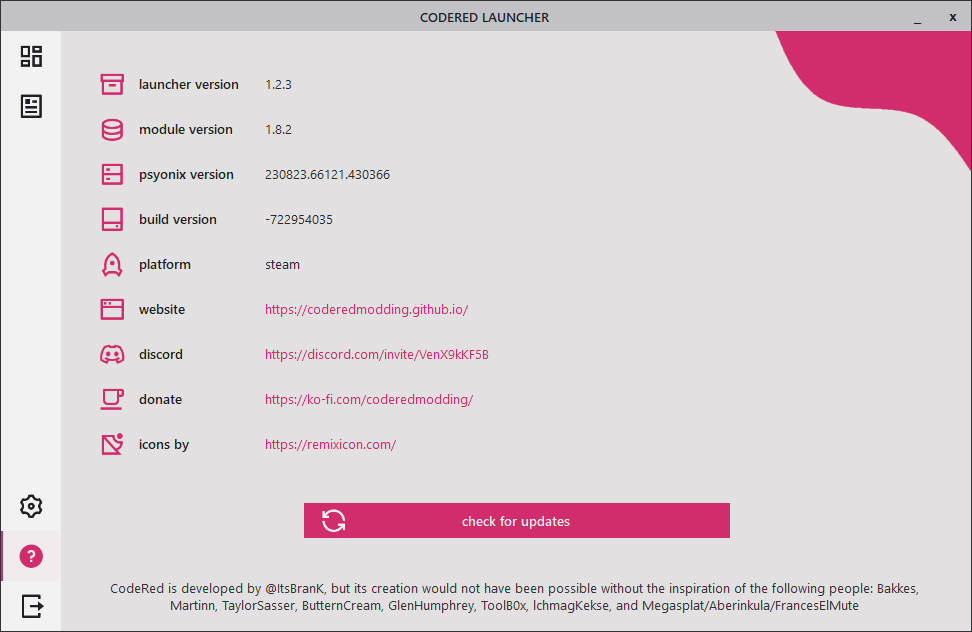
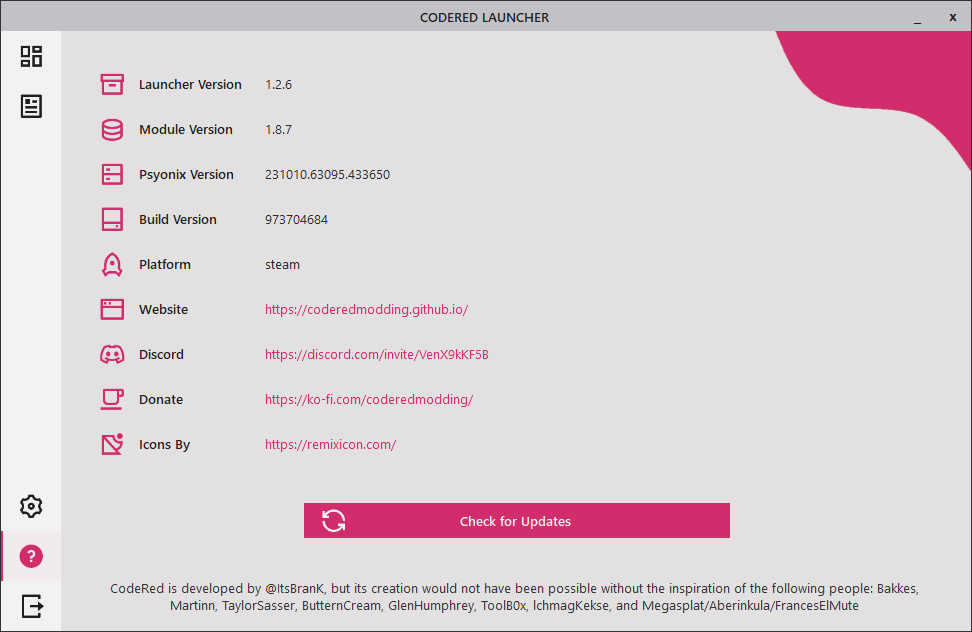
v1.2.7
- Changed the formatting for settings and labels in the about tab slightly.
- Changed the capitalizations for all the buttons for consistency reasons.
- Fixed the news tab downloading article data and images twice in the background on startup.

diff --git a/Forms/MainFrm.Designer.cs b/Forms/MainFrm.Designer.cs
@@ -235,8 +235,8 @@ namespace CodeRedLauncher
             PlatformInfoCtrl.BackColor = System.Drawing.Color.Transparent;
             PlatformInfoCtrl.ControlType = CodeRedLauncher.Controls.ControlTheme.Dark;
             PlatformInfoCtrl.DescriptionFont = new System.Drawing.Font("Segoe UI", 9.75F, System.Drawing.FontStyle.Regular, System.Drawing.GraphicsUnit.Point);
-            PlatformInfoCtrl.DisplayDescription = "loading...";
-            PlatformInfoCtrl.DisplayTitle = "platform";
+            PlatformInfoCtrl.DisplayDescription = "Loading...";
+            PlatformInfoCtrl.DisplayTitle = "Platform";
             PlatformInfoCtrl.Hyperlink = false;
             PlatformInfoCtrl.IconBlack = Properties.Resources.Rocket_Black;
             PlatformInfoCtrl.IconBlue = Properties.Resources.Rocket_Blue;
@@ -256,8 +256,8 @@ namespace CodeRedLauncher
             BuildInfoCtrl.BackColor = System.Drawing.Color.Transparent;
             BuildInfoCtrl.ControlType = CodeRedLauncher.Controls.ControlTheme.Dark;
             BuildInfoCtrl.DescriptionFont = new System.Drawing.Font("Segoe UI", 9.75F, System.Drawing.FontStyle.Regular, System.Drawing.GraphicsUnit.Point);
-            BuildInfoCtrl.DisplayDescription = "loading...";
-            BuildInfoCtrl.DisplayTitle = "build version";
+            BuildInfoCtrl.DisplayDescription = "Loading...";
+            BuildInfoCtrl.DisplayTitle = "Build Version";
             BuildInfoCtrl.Hyperlink = false;
             BuildInfoCtrl.IconBlack = Properties.Resources.Drive_Black;
             BuildInfoCtrl.IconBlue = Properties.Resources.Drive_Blue;
@@ -277,8 +277,8 @@ namespace CodeRedLauncher
             PsyonixInfoCtrl.BackColor = System.Drawing.Color.Transparent;
             PsyonixInfoCtrl.ControlType = CodeRedLauncher.Controls.ControlTheme.Dark;
             PsyonixInfoCtrl.DescriptionFont = new System.Drawing.Font("Segoe UI", 9.75F, System.Drawing.FontStyle.Regular, System.Drawing.GraphicsUnit.Point);
-            PsyonixInfoCtrl.DisplayDescription = "loading...";
-            PsyonixInfoCtrl.DisplayTitle = "psyonix version";
+            PsyonixInfoCtrl.DisplayDescription = "Loading...";
+            PsyonixInfoCtrl.DisplayTitle = "Psyonix Version";
             PsyonixInfoCtrl.Hyperlink = false;
             PsyonixInfoCtrl.IconBlack = Properties.Resources.Server_Black;
             PsyonixInfoCtrl.IconBlue = Properties.Resources.Server_Blue;
@@ -298,8 +298,8 @@ namespace CodeRedLauncher
             ModuleInfoCtrl.BackColor = System.Drawing.Color.Transparent;
             ModuleInfoCtrl.ControlType = CodeRedLauncher.Controls.ControlTheme.Dark;
             ModuleInfoCtrl.DescriptionFont = new System.Drawing.Font("Segoe UI", 9.75F, System.Drawing.FontStyle.Regular, System.Drawing.GraphicsUnit.Point);
-            ModuleInfoCtrl.DisplayDescription = "loading...";
-            ModuleInfoCtrl.DisplayTitle = "module version";
+            ModuleInfoCtrl.DisplayDescription = "Loading...";
+            ModuleInfoCtrl.DisplayTitle = "Module Version";
             ModuleInfoCtrl.Hyperlink = false;
             ModuleInfoCtrl.IconBlack = null;
             ModuleInfoCtrl.IconBlue = Properties.Resources.Database_Blue;
@@ -319,8 +319,8 @@ namespace CodeRedLauncher
             LauncherInfoCtrl.BackColor = System.Drawing.Color.Transparent;
             LauncherInfoCtrl.ControlType = CodeRedLauncher.Controls.ControlTheme.Dark;
             LauncherInfoCtrl.DescriptionFont = new System.Drawing.Font("Segoe UI", 9.75F, System.Drawing.FontStyle.Regular, System.Drawing.GraphicsUnit.Point);
-            LauncherInfoCtrl.DisplayDescription = "loading...";
-            LauncherInfoCtrl.DisplayTitle = "launcher version";
+            LauncherInfoCtrl.DisplayDescription = "Loading...";
+            LauncherInfoCtrl.DisplayTitle = "Launcher Version";
             LauncherInfoCtrl.Hyperlink = false;
             LauncherInfoCtrl.IconBlack = Properties.Resources.Box_Black;
             LauncherInfoCtrl.IconBlue = Properties.Resources.Box_Blue;
@@ -341,7 +341,7 @@ namespace CodeRedLauncher
             WebsiteInfoCtrl.ControlType = CodeRedLauncher.Controls.ControlTheme.Dark;
             WebsiteInfoCtrl.DescriptionFont = new System.Drawing.Font("Segoe UI", 9.75F, System.Drawing.FontStyle.Regular, System.Drawing.GraphicsUnit.Point);
             WebsiteInfoCtrl.DisplayDescription = "https://coderedmodding.github.io/";
-            WebsiteInfoCtrl.DisplayTitle = "website";
+            WebsiteInfoCtrl.DisplayTitle = "Website";
             WebsiteInfoCtrl.Hyperlink = true;
             WebsiteInfoCtrl.IconBlack = Properties.Resources.Website_Black;
             WebsiteInfoCtrl.IconBlue = Properties.Resources.Website_Blue;
@@ -362,7 +362,7 @@ namespace CodeRedLauncher
             DiscordInfoCtrl.ControlType = CodeRedLauncher.Controls.ControlTheme.Dark;
             DiscordInfoCtrl.DescriptionFont = new System.Drawing.Font("Segoe UI", 9.75F, System.Drawing.FontStyle.Regular, System.Drawing.GraphicsUnit.Point);
             DiscordInfoCtrl.DisplayDescription = "https://discord.gg/";
-            DiscordInfoCtrl.DisplayTitle = "discord";
+            DiscordInfoCtrl.DisplayTitle = "Discord";
             DiscordInfoCtrl.Hyperlink = true;
             DiscordInfoCtrl.IconBlack = Properties.Resources.Discord_Black;
             DiscordInfoCtrl.IconBlue = Properties.Resources.Discord_Blue;
@@ -383,7 +383,7 @@ namespace CodeRedLauncher
             DonateInfoCtrl.ControlType = CodeRedLauncher.Controls.ControlTheme.Dark;
             DonateInfoCtrl.DescriptionFont = new System.Drawing.Font("Segoe UI", 9.75F, System.Drawing.FontStyle.Regular, System.Drawing.GraphicsUnit.Point);
             DonateInfoCtrl.DisplayDescription = "https://ko-fi.com/coderedmodding/";
-            DonateInfoCtrl.DisplayTitle = "donate";
+            DonateInfoCtrl.DisplayTitle = "Donate";
             DonateInfoCtrl.Hyperlink = true;
             DonateInfoCtrl.IconBlack = Properties.Resources.Coffee_Black;
             DonateInfoCtrl.IconBlue = Properties.Resources.Coffee_Blue;
@@ -404,7 +404,7 @@ namespace CodeRedLauncher
             RemixInfoCtrl.ControlType = CodeRedLauncher.Controls.ControlTheme.Dark;
             RemixInfoCtrl.DescriptionFont = new System.Drawing.Font("Segoe UI", 9.75F, System.Drawing.FontStyle.Regular, System.Drawing.GraphicsUnit.Point);
             RemixInfoCtrl.DisplayDescription = "https://remixicon.com/";
-            RemixInfoCtrl.DisplayTitle = "icons by";
+            RemixInfoCtrl.DisplayTitle = "Icons By";
             RemixInfoCtrl.Hyperlink = true;
             RemixInfoCtrl.IconBlack = Properties.Resources.Remix_Black;
             RemixInfoCtrl.IconBlue = Properties.Resources.Remix_Blue;
@@ -426,7 +426,7 @@ namespace CodeRedLauncher
             CheckUpdatesBtn.ButtonEnabled = true;
             CheckUpdatesBtn.ControlType = CodeRedLauncher.Controls.ControlTheme.Dark;
             CheckUpdatesBtn.DisplayFont = new System.Drawing.Font("Segoe UI Semibold", 9.75F, System.Drawing.FontStyle.Bold, System.Drawing.GraphicsUnit.Point);
-            CheckUpdatesBtn.DisplayText = "Check for updates";
+            CheckUpdatesBtn.DisplayText = "Check for Updates";
             CheckUpdatesBtn.Font = new System.Drawing.Font("Segoe UI Semibold", 9.75F, System.Drawing.FontStyle.Bold, System.Drawing.GraphicsUnit.Point);
             CheckUpdatesBtn.ForeColor = System.Drawing.Color.FromArgb(242, 243, 245);
             CheckUpdatesBtn.IconBlack = Properties.Resources.Refresh_Black;
@@ -676,9 +676,9 @@ namespace CodeRedLauncher
             NewsCtrl.LeftWhite = Properties.Resources.Left_White;
             NewsCtrl.Location = new System.Drawing.Point(23, 25);
             NewsCtrl.Name = "NewsCtrl";
-            NewsCtrl.NewsCategory = "loading...";
-            NewsCtrl.PublishAuthor = "loading...";
-            NewsCtrl.PublishDate = "loading...";
+            NewsCtrl.NewsCategory = "Loading...";
+            NewsCtrl.PublishAuthor = "Loading...";
+            NewsCtrl.PublishDate = "Loading...";
             NewsCtrl.RightBlack = Properties.Resources.Right_Black;
             NewsCtrl.RightBlue = Properties.Resources.Right_Blue;
             NewsCtrl.RightPurple = Properties.Resources.Right_Purple;
@@ -687,7 +687,7 @@ namespace CodeRedLauncher
             NewsCtrl.Size = new System.Drawing.Size(865, 550);
             NewsCtrl.TabIndex = 0;
             NewsCtrl.Thumbnail = null;
-            NewsCtrl.Title = "loading...";
+            NewsCtrl.Title = "Loading...";
             // 
             // NewsArtOne
             // 
@@ -807,7 +807,7 @@ namespace CodeRedLauncher
             AutoInstallBx.CheckWhite = Properties.Resources.Checkbox_White;
             AutoInstallBx.ControlType = CodeRedLauncher.Controls.ControlTheme.Dark;
             AutoInstallBx.DisplayFont = new System.Drawing.Font("Segoe UI Semibold", 9.75F, System.Drawing.FontStyle.Bold, System.Drawing.GraphicsUnit.Point);
-            AutoInstallBx.DisplayText = "automatically install updates";
+            AutoInstallBx.DisplayText = "Automatically install updates";
             AutoInstallBx.ForeColor = System.Drawing.Color.FromArgb(242, 243, 245);
             AutoInstallBx.IconBlack = Properties.Resources.Install_Black;
             AutoInstallBx.IconBlue = Properties.Resources.Install_Blue;
@@ -856,7 +856,7 @@ namespace CodeRedLauncher
             HideWhenMinimizedBx.CheckWhite = Properties.Resources.Checkbox_White;
             HideWhenMinimizedBx.ControlType = CodeRedLauncher.Controls.ControlTheme.Dark;
             HideWhenMinimizedBx.DisplayFont = new System.Drawing.Font("Segoe UI Semibold", 9.75F, System.Drawing.FontStyle.Bold, System.Drawing.GraphicsUnit.Point);
-            HideWhenMinimizedBx.DisplayText = "hide when minimized";
+            HideWhenMinimizedBx.DisplayText = "Hide when minimized";
             HideWhenMinimizedBx.ForeColor = System.Drawing.Color.FromArgb(235, 235, 235);
             HideWhenMinimizedBx.IconBlack = Properties.Resources.Spy_Black;
             HideWhenMinimizedBx.IconBlue = Properties.Resources.Spy_Blue;
@@ -877,7 +877,7 @@ namespace CodeRedLauncher
             InstallPathLbl.BackColor = System.Drawing.Color.Transparent;
             InstallPathLbl.ControlType = CodeRedLauncher.Controls.ControlTheme.Dark;
             InstallPathLbl.DisplayFont = new System.Drawing.Font("Segoe UI Semibold", 9.75F, System.Drawing.FontStyle.Bold, System.Drawing.GraphicsUnit.Point);
-            InstallPathLbl.DisplayText = "install path";
+            InstallPathLbl.DisplayText = "Install path";
             InstallPathLbl.IconBlack = Properties.Resources.Folder_Black;
             InstallPathLbl.IconBlue = Properties.Resources.Folder_Blue;
             InstallPathLbl.IconPurple = Properties.Resources.Folder_Purple;
@@ -894,7 +894,7 @@ namespace CodeRedLauncher
             InjectionTimeoutLbl.BackColor = System.Drawing.Color.Transparent;
             InjectionTimeoutLbl.ControlType = CodeRedLauncher.Controls.ControlTheme.Dark;
             InjectionTimeoutLbl.DisplayFont = new System.Drawing.Font("Segoe UI Semibold", 9.75F, System.Drawing.FontStyle.Bold, System.Drawing.GraphicsUnit.Point);
-            InjectionTimeoutLbl.DisplayText = "injection delay";
+            InjectionTimeoutLbl.DisplayText = "Injection delay";
             InjectionTimeoutLbl.IconBlack = Properties.Resources.Hourglass_Black;
             InjectionTimeoutLbl.IconBlue = Properties.Resources.Hourglass_Blue;
             InjectionTimeoutLbl.IconPurple = Properties.Resources.Hourglass_Purple;
@@ -916,7 +916,7 @@ namespace CodeRedLauncher
             LightModeBx.CheckWhite = Properties.Resources.Checkbox_White;
             LightModeBx.ControlType = CodeRedLauncher.Controls.ControlTheme.Dark;
             LightModeBx.DisplayFont = new System.Drawing.Font("Segoe UI Semibold", 9.75F, System.Drawing.FontStyle.Bold, System.Drawing.GraphicsUnit.Point);
-            LightModeBx.DisplayText = "blind me with the power of the sun";
+            LightModeBx.DisplayText = "Blind me with the power of the sun";
             LightModeBx.ForeColor = System.Drawing.Color.FromArgb(242, 243, 245);
             LightModeBx.IconBlack = Properties.Resources.Sun_Black;
             LightModeBx.IconBlue = Properties.Resources.Sun_Blue;
@@ -942,7 +942,7 @@ namespace CodeRedLauncher
             ManualInjectBx.CheckWhite = Properties.Resources.Checkbox_White;
             ManualInjectBx.ControlType = CodeRedLauncher.Controls.ControlTheme.Dark;
             ManualInjectBx.DisplayFont = new System.Drawing.Font("Segoe UI Semibold", 9.75F, System.Drawing.FontStyle.Bold, System.Drawing.GraphicsUnit.Point);
-            ManualInjectBx.DisplayText = "manually inject instead of delay";
+            ManualInjectBx.DisplayText = "Manually inject instead of delay";
             ManualInjectBx.ForeColor = System.Drawing.Color.FromArgb(242, 243, 245);
             ManualInjectBx.IconBlack = Properties.Resources.Mouse_Black;
             ManualInjectBx.IconBlue = Properties.Resources.Mouse_Blue;
@@ -988,7 +988,7 @@ namespace CodeRedLauncher
             InstallPathBx.BoxEnabled = true;
             InstallPathBx.ControlType = CodeRedLauncher.Controls.ControlTheme.Dark;
             InstallPathBx.DisplayFont = new System.Drawing.Font("Segoe UI Semibold", 9F, System.Drawing.FontStyle.Bold, System.Drawing.GraphicsUnit.Point);
-            InstallPathBx.DisplayText = "loading...";
+            InstallPathBx.DisplayText = "Loading...";
             InstallPathBx.ForeColor = System.Drawing.Color.FromArgb(235, 235, 235);
             InstallPathBx.Location = new System.Drawing.Point(192, 490);
             InstallPathBx.Margin = new System.Windows.Forms.Padding(4, 3, 4, 3);
@@ -1004,7 +1004,7 @@ namespace CodeRedLauncher
             OpenFolderBtn.ButtonEnabled = true;
             OpenFolderBtn.ControlType = CodeRedLauncher.Controls.ControlTheme.Dark;
             OpenFolderBtn.DisplayFont = new System.Drawing.Font("Segoe UI Semibold", 9.75F, System.Drawing.FontStyle.Bold, System.Drawing.GraphicsUnit.Point);
-            OpenFolderBtn.DisplayText = "Open install path";
+            OpenFolderBtn.DisplayText = "Open Install Path";
             OpenFolderBtn.Font = new System.Drawing.Font("Segoe UI Semibold", 9.75F, System.Drawing.FontStyle.Bold, System.Drawing.GraphicsUnit.Point);
             OpenFolderBtn.ForeColor = System.Drawing.Color.FromArgb(242, 243, 245);
             OpenFolderBtn.IconBlack = Properties.Resources.Open_Black;
@@ -1027,7 +1027,7 @@ namespace CodeRedLauncher
             ExportLogsBtn.ButtonEnabled = true;
             ExportLogsBtn.ControlType = CodeRedLauncher.Controls.ControlTheme.Dark;
             ExportLogsBtn.DisplayFont = new System.Drawing.Font("Segoe UI Semibold", 9.75F, System.Drawing.FontStyle.Bold, System.Drawing.GraphicsUnit.Point);
-            ExportLogsBtn.DisplayText = "Export crash logs";
+            ExportLogsBtn.DisplayText = "Export Crash Logs";
             ExportLogsBtn.Font = new System.Drawing.Font("Segoe UI Semibold", 9.75F, System.Drawing.FontStyle.Bold, System.Drawing.GraphicsUnit.Point);
             ExportLogsBtn.ForeColor = System.Drawing.Color.FromArgb(242, 243, 245);
             ExportLogsBtn.IconBlack = Properties.Resources.Zip_Black;
@@ -1053,7 +1053,7 @@ namespace CodeRedLauncher
             InjectAllInstancesBx.CheckWhite = Properties.Resources.Checkbox_White;
             InjectAllInstancesBx.ControlType = CodeRedLauncher.Controls.ControlTheme.Dark;
             InjectAllInstancesBx.DisplayFont = new System.Drawing.Font("Segoe UI Semibold", 9.75F, System.Drawing.FontStyle.Bold, System.Drawing.GraphicsUnit.Point);
-            InjectAllInstancesBx.DisplayText = "inject into all game instances";
+            InjectAllInstancesBx.DisplayText = "Inject into all game instances";
             InjectAllInstancesBx.ForeColor = System.Drawing.Color.FromArgb(242, 243, 245);
             InjectAllInstancesBx.IconBlack = Properties.Resources.Stack_Black;
             InjectAllInstancesBx.IconBlue = Properties.Resources.Stack_Blue;
@@ -1079,7 +1079,7 @@ namespace CodeRedLauncher
             MinimizeOnStartupBx.CheckWhite = Properties.Resources.Checkbox_White;
             MinimizeOnStartupBx.ControlType = CodeRedLauncher.Controls.ControlTheme.Dark;
             MinimizeOnStartupBx.DisplayFont = new System.Drawing.Font("Segoe UI Semibold", 9.75F, System.Drawing.FontStyle.Bold, System.Drawing.GraphicsUnit.Point);
-            MinimizeOnStartupBx.DisplayText = "minimize on startup";
+            MinimizeOnStartupBx.DisplayText = "Minimize on startup";
             MinimizeOnStartupBx.ForeColor = System.Drawing.Color.FromArgb(242, 243, 245);
             MinimizeOnStartupBx.IconBlack = Properties.Resources.Eye_Black;
             MinimizeOnStartupBx.IconBlue = Properties.Resources.Eye_Blue;
@@ -1105,7 +1105,7 @@ namespace CodeRedLauncher
             RunOnStartupBx.CheckWhite = Properties.Resources.Checkbox_White;
             RunOnStartupBx.ControlType = CodeRedLauncher.Controls.ControlTheme.Dark;
             RunOnStartupBx.DisplayFont = new System.Drawing.Font("Segoe UI Semibold", 9.75F, System.Drawing.FontStyle.Bold, System.Drawing.GraphicsUnit.Point);
-            RunOnStartupBx.DisplayText = "run on windows startup";
+            RunOnStartupBx.DisplayText = "Run on windows startup";
             RunOnStartupBx.ForeColor = System.Drawing.Color.FromArgb(242, 243, 245);
             RunOnStartupBx.IconBlack = Properties.Resources.Windows_Black;
             RunOnStartupBx.IconBlue = Properties.Resources.Windows_Blue;
@@ -1131,7 +1131,7 @@ namespace CodeRedLauncher
             PreventInjectionBx.CheckWhite = Properties.Resources.Checkbox_White;
             PreventInjectionBx.ControlType = CodeRedLauncher.Controls.ControlTheme.Dark;
             PreventInjectionBx.DisplayFont = new System.Drawing.Font("Segoe UI Semibold", 9.75F, System.Drawing.FontStyle.Bold, System.Drawing.GraphicsUnit.Point);
-            PreventInjectionBx.DisplayText = "prevent injection when out of date";
+            PreventInjectionBx.DisplayText = "Prevent injection when out of date";
             PreventInjectionBx.ForeColor = System.Drawing.Color.FromArgb(242, 243, 245);
             PreventInjectionBx.IconBlack = Properties.Resources.Lock_Black;
             PreventInjectionBx.IconBlue = Properties.Resources.Lock_Blue;
@@ -1157,7 +1157,7 @@ namespace CodeRedLauncher
             AutoCheckUpdatesBx.CheckWhite = Properties.Resources.Checkbox_White;
             AutoCheckUpdatesBx.ControlType = CodeRedLauncher.Controls.ControlTheme.Dark;
             AutoCheckUpdatesBx.DisplayFont = new System.Drawing.Font("Segoe UI Semibold", 9.75F, System.Drawing.FontStyle.Bold, System.Drawing.GraphicsUnit.Point);
-            AutoCheckUpdatesBx.DisplayText = "automatically check for updates";
+            AutoCheckUpdatesBx.DisplayText = "Automatically check for updates";
             AutoCheckUpdatesBx.ForeColor = System.Drawing.Color.FromArgb(242, 243, 245);
             AutoCheckUpdatesBx.IconBlack = Properties.Resources.Download_Black;
             AutoCheckUpdatesBx.IconBlue = Properties.Resources.Download_Blue;

diff --git a/Controls/CRNews.cs b/Controls/CRNews.cs
@@ -388,14 +388,19 @@ namespace CodeRedLauncher.Controls
                             newsStorage.ThumbnailUrl = thumbnailMatch.Groups[1].Value;
                             Int32 jpg = newsStorage.ThumbnailUrl.IndexOf(".jpg");
                             Int32 png = newsStorage.ThumbnailUrl.IndexOf(".png");
+                            Int32 webp = newsStorage.ThumbnailUrl.IndexOf(".webp");
 
-                            if (jpg != -1)
+                            if (jpg > 0)
                             {
                                 newsStorage.ThumbnailUrl = (newsStorage.ThumbnailUrl.Substring(0, jpg) + ".jpg");
                             }
-                            else if (png != -1)
+                            else if (png > 0)
                             {
                                 newsStorage.ThumbnailUrl = (newsStorage.ThumbnailUrl.Substring(0, png) + ".png");
+                            }
+                            else if (webp > 0)
+                            {
+                                newsStorage.ThumbnailUrl = (newsStorage.ThumbnailUrl.Substring(0, webp) + ".webp"); // .NET doesn't support webp, so this doesn't work for now. Would need a third party library.
                             }
                         }
 
@@ -486,9 +491,9 @@ namespace CodeRedLauncher.Controls
 
                         if (newsStorage.ThumbnailImage == null)
                         {
-                            newsStorage.ThumbnailUrl = "https://i.imgur.com/dmpY0zQ.png";
-                            newsStorage.ThumbnailUrlAlt = "";
-                            newsStorage.ThumbnailImage = await Downloaders.DownloadImage(newsStorage.ThumbnailUrl);
+                            newsStorage.ThumbnailUrl = "";
+                            newsStorage.ThumbnailUrlAlt = "https://i.imgur.com/dmpY0zQ.png";
+                            newsStorage.ThumbnailImage = await Downloaders.DownloadImage(newsStorage.ThumbnailUrlAlt);
                         }
                     }
                 }
@@ -532,9 +537,9 @@ namespace CodeRedLauncher.Controls
 
                             if (newsStorage.ThumbnailImage == null)
                             {
-                                newsStorage.ThumbnailUrl = "https://i.imgur.com/dmpY0zQ.png";
-                                newsStorage.ThumbnailUrlAlt = "";
-                                newsStorage.ThumbnailImage = await Downloaders.DownloadImage(newsStorage.ThumbnailUrl);
+                                newsStorage.ThumbnailUrl = "";
+                                newsStorage.ThumbnailUrlAlt = "https://i.imgur.com/dmpY0zQ.png";
+                                newsStorage.ThumbnailImage = await Downloaders.DownloadImage(newsStorage.ThumbnailUrlAlt);
                             }
 
                             _articles[_index] = newsStorage;

diff --git a/Forms/MainFrm.cs b/Forms/MainFrm.cs
@@ -838,8 +838,6 @@ namespace CodeRedLauncher
                     Retrievers.Invalidate();
                 }
 
-                RetrieversToInterface();
-
                 if (Configuration.ShouldCheckForUpdates())
                 {
                     await CheckForUpdates(false);
@@ -847,6 +845,7 @@ namespace CodeRedLauncher
                 else
                 {
                     UpdateStatusCtrl.DisplayType = StatusTypes.Version_Idle;
+                    RetrieversToInterface();
                 }
             }
             else
@@ -869,8 +868,6 @@ namespace CodeRedLauncher
                 NewsCtrl.ParseArticles(await Retrievers.GetNewsUrl());
                 ChangelogCtrl.ModuleText = await Retrievers.GetModuleChangelog();
                 ChangelogCtrl.LauncherText = await Retrievers.GetLauncherChangelog();
-                //ChangelogCtrl.ModuleText = "Remade the launchers UI with a new color scheme, new icons, and added a light mode.\nThe export crash logs file now also adds your variables file from CodeRed to the zip.\nFixed the launcher not loading at all if you tried to run it while not connected to the internet.\nFixed the launcher not auto-checking for updates when you enabled it through the checkbox.\nFixed the previous and next buttons in the news tab in the launcher having the wrong icons.";
-                //ChangelogCtrl.LauncherText = "Remade the launchers UI with a new color scheme, new icons, and added a light mode.\nThe export crash logs file now also adds your variables file from CodeRed to the zip.\nFixed the launcher not loading at all if you tried to run it while not connected to the internet.\nFixed the launcher not auto-checking for updates when you enabled it through the checkbox.\nFixed the previous and next buttons in the news tab in the launcher having the wrong icons.";
                 DiscordInfoCtrl.DisplayDescription = await Retrievers.GetDiscordUrl();
                 DonateInfoCtrl.DisplayDescription = await Retrievers.GetKofiUrl();
 
@@ -1171,9 +1168,9 @@ namespace CodeRedLauncher
                 Logger.Write("Could not check for updates, launcher is running in offline mode!");
             }
 
-            RetrieversToInterface(); // Retrieves news and changelog info and assigns it to the UI.
-            ConfigToInterface(); // Retrieves the users configuration settings and assigns it to the UI.
-            StorageToInterface(); // Retrieves Rocket League paths, version, and platform info to then assign to the UI.
+            RetrieversToInterface();
+            ConfigToInterface();
+            StorageToInterface();
             CheckUpdatesBtn.ButtonEnabled = true;
             return true;
         }

diff --git a/Controls/CRInfo.Designer.cs b/Controls/CRInfo.Designer.cs
@@ -44,7 +44,7 @@
             InfoDescriptionLbl.Name = "InfoDescriptionLbl";
             InfoDescriptionLbl.Size = new System.Drawing.Size(269, 32);
             InfoDescriptionLbl.TabIndex = 25;
-            InfoDescriptionLbl.Text = "description";
+            InfoDescriptionLbl.Text = "Description";
             InfoDescriptionLbl.TextAlign = System.Drawing.ContentAlignment.MiddleLeft;
             InfoDescriptionLbl.Click += InfoDescriptionLbl_Click;
             InfoDescriptionLbl.DoubleClick += InfoDescriptionLbl_DoubleClick;
@@ -70,7 +70,7 @@
             InfoTitleLbl.Name = "InfoTitleLbl";
             InfoTitleLbl.Size = new System.Drawing.Size(120, 35);
             InfoTitleLbl.TabIndex = 23;
-            InfoTitleLbl.Text = "title";
+            InfoTitleLbl.Text = "Title";
             InfoTitleLbl.TextAlign = System.Drawing.ContentAlignment.MiddleLeft;
             // 
             // CRInfo

diff --git a/Framework/Assembly.cs b/Framework/Assembly.cs
@@ -10,7 +10,7 @@ namespace CodeRedLauncher
         private static readonly string _product = "CodeRed Launcher";
         private static readonly string _copyright = "CodeRedModding 2023";
         private static readonly string _license = "MIT License";
-        private static readonly string _version = "1.2.6";
+        private static readonly string _version = "1.2.7";
         private static readonly bool _termsOfUse = false;
         private static readonly bool _privatePolicy = false;
 

diff --git a/Controls/CRButton.Designer.cs b/Controls/CRButton.Designer.cs
@@ -43,7 +43,7 @@
             TextLbl.Name = "TextLbl";
             TextLbl.Size = new System.Drawing.Size(229, 40);
             TextLbl.TabIndex = 0;
-            TextLbl.Text = "button";
+            TextLbl.Text = "Button";
             TextLbl.TextAlign = System.Drawing.ContentAlignment.MiddleCenter;
             TextLbl.Click += TextLbl_Click;
             TextLbl.DoubleClick += TextLbl_DoubleClick;

diff --git a/Controls/CRLabel.Designer.cs b/Controls/CRLabel.Designer.cs
@@ -54,7 +54,7 @@
             TextLbl.Name = "TextLbl";
             TextLbl.Size = new System.Drawing.Size(188, 35);
             TextLbl.TabIndex = 8;
-            TextLbl.Text = "label";
+            TextLbl.Text = "Label";
             TextLbl.TextAlign = System.Drawing.ContentAlignment.MiddleLeft;
             // 
             // CRLabel

diff --git a/Controls/CRTextbox.Designer.cs b/Controls/CRTextbox.Designer.cs
@@ -44,7 +44,7 @@
             InputBx.Name = "InputBx";
             InputBx.Size = new System.Drawing.Size(190, 18);
             InputBx.TabIndex = 0;
-            InputBx.Text = "textbox";
+            InputBx.Text = "Textbox";
             InputBx.WordWrap = false;
             InputBx.TextChanged += InputBx_TextChanged;
             // 
